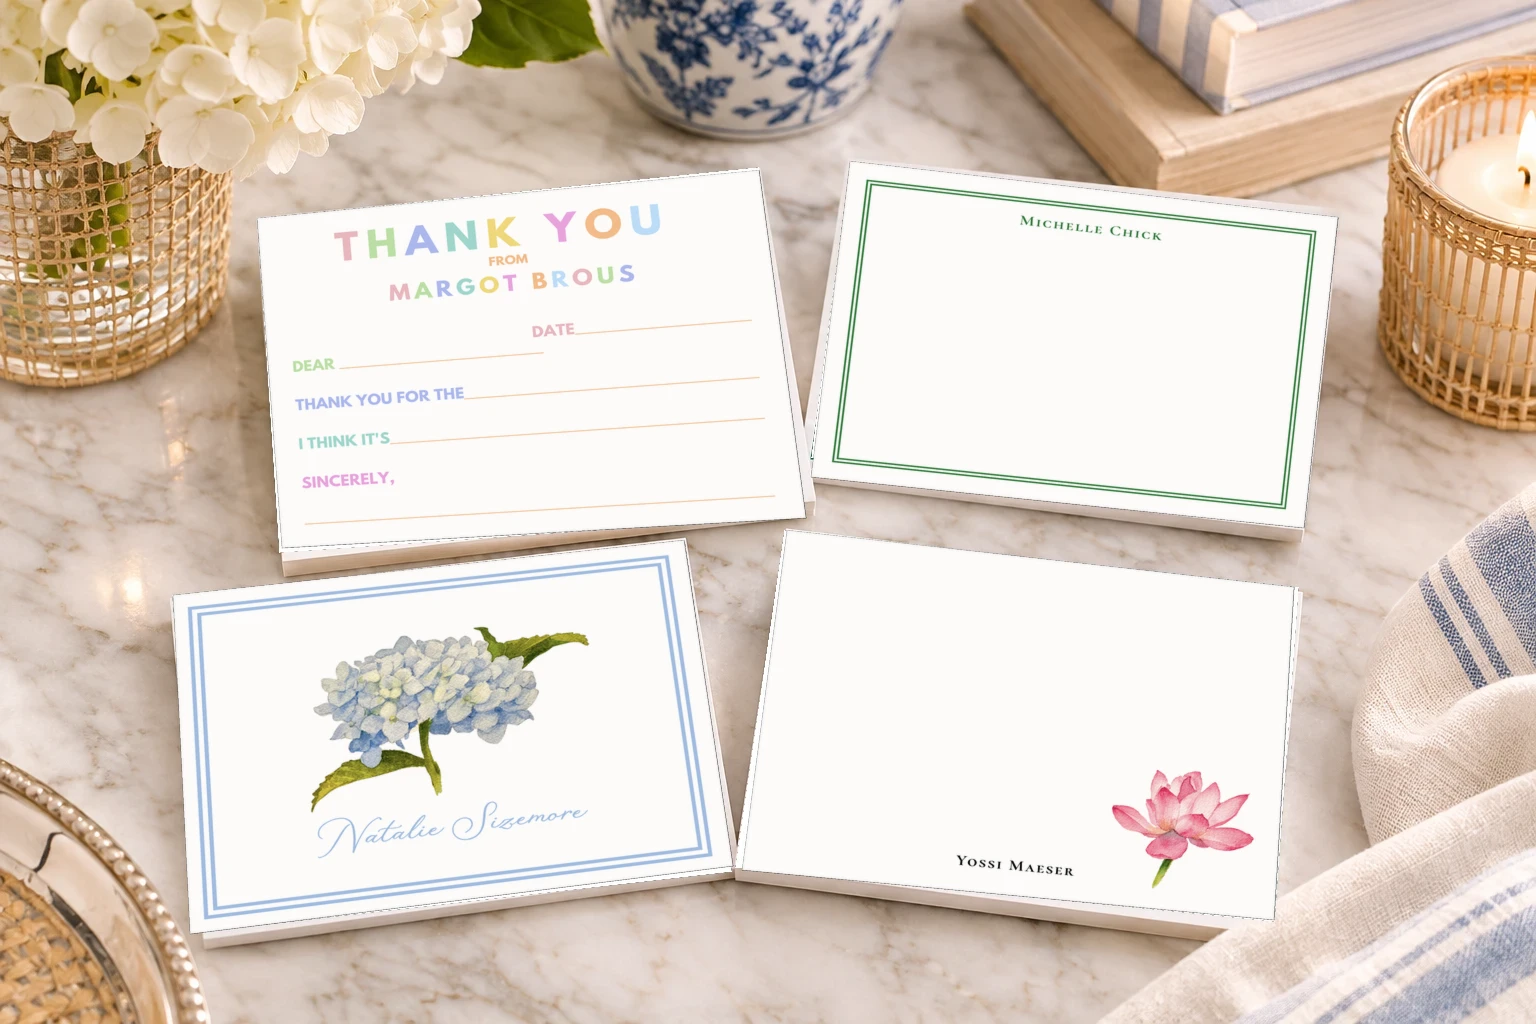
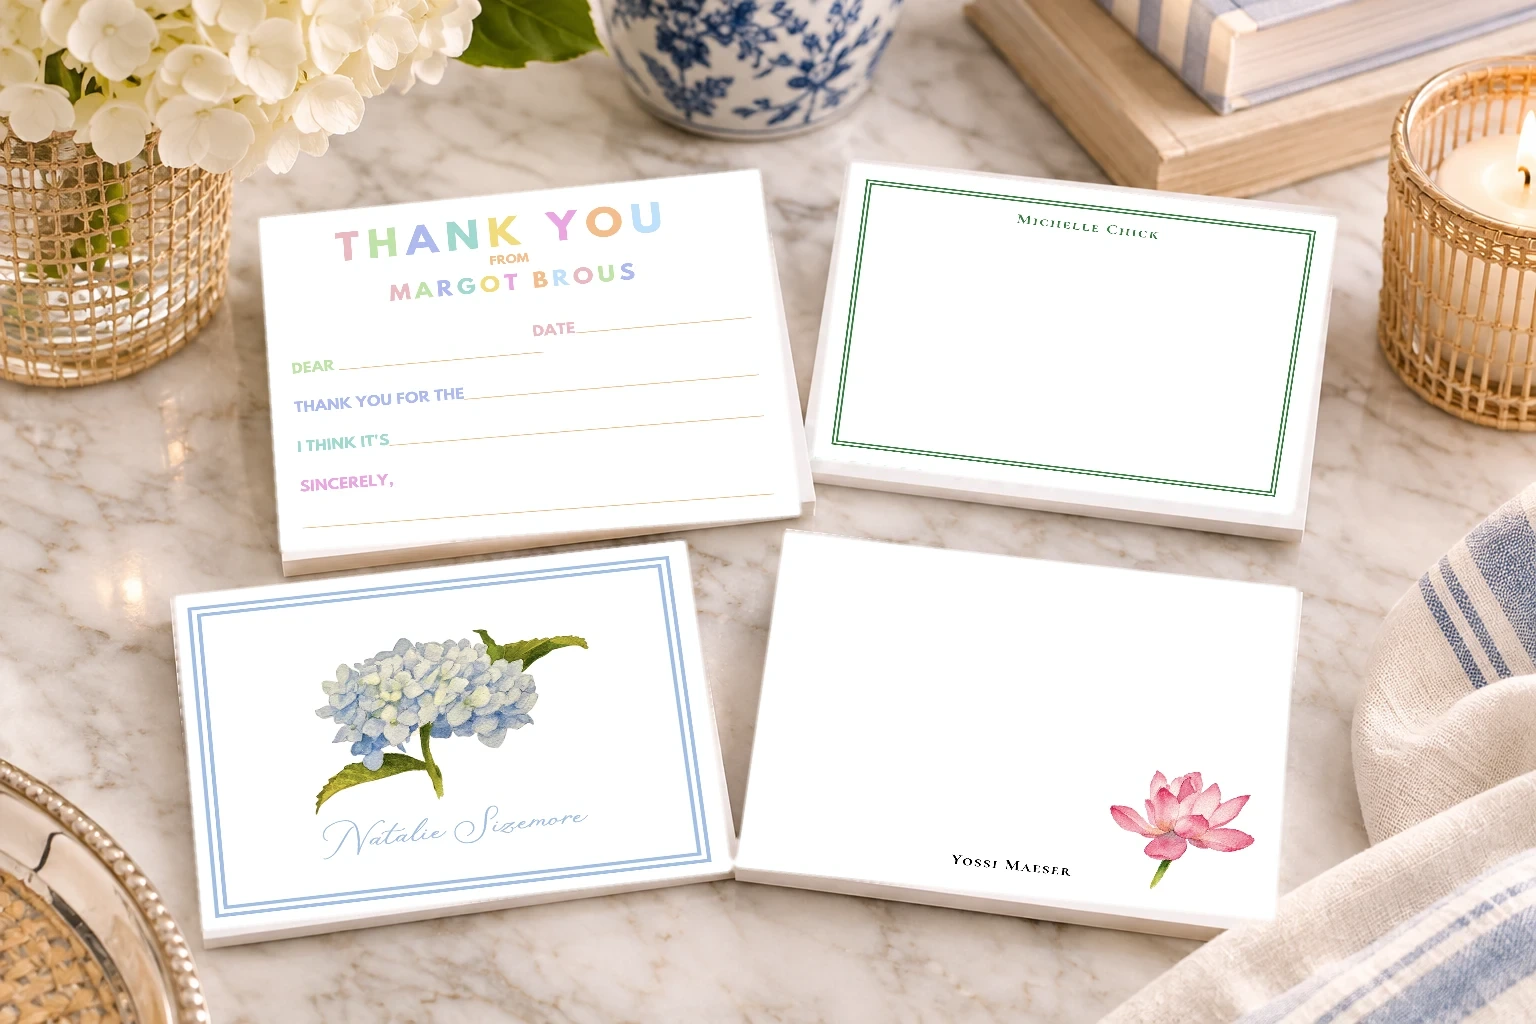
Retail partners: new product samples photo with clean card edges; keep full-quality masters
Claude-Session: https://claude.ai/code/session_01CfVqtoW5zsALxSaAEsBk63

diff --git a/CLAUDE.md b/CLAUDE.md
@@ -58,5 +58,6 @@ Also:
 - Match the live site first; innovate second unless told otherwise.
 - Keep neighboring homepage sections visibly distinct in background color.
 - Keep the personalization picker at exactly the 10 approved fonts unless Sydney changes the list.
+- Edit website photos from the full-quality master in `design/originals/` (or the original download), never by re-saving the compressed copy in `app/assets/` — repeated re-saves make photos blurry.
 - Don't reintroduce deleted homepage sections (Shop by Category, old FeatureBands, "Why We're Different").
 - Implement a feedback batch fully → deploy to Oxygen preview → report what changed and what you need next.

diff --git a/design/originals/README.md b/design/originals/README.md
@@ -1,0 +1,9 @@
+# Original images (full quality)
+
+Master copies of website photos, kept at full quality. They are not served on
+the site; the compressed copies the site uses live in `app/assets/`.
+
+**To edit a website photo, always start from the master here (or the original
+download), never from the compressed copy in `app/assets/`.** Every re-save of a
+compressed file makes it a little softer. Save the edited master here, then
+export the site copy from it once.
